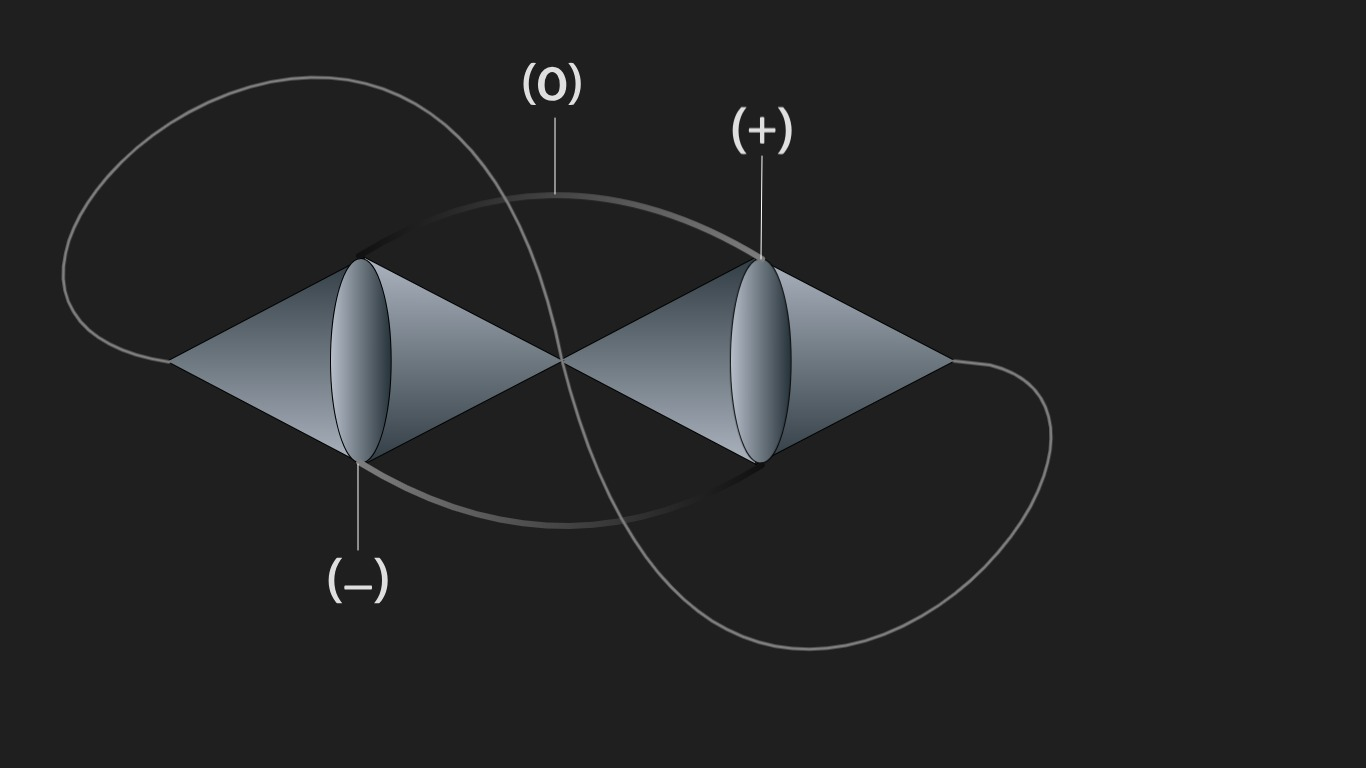
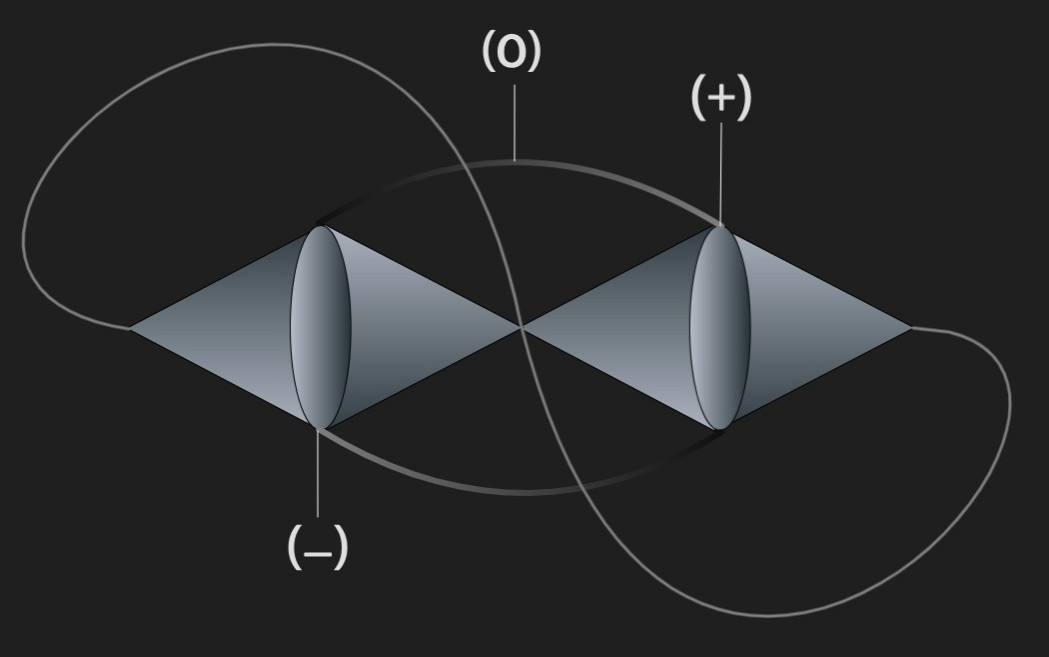
spacing

diff --git a/index.html b/index.html
@@ -36,11 +36,11 @@
       </header>
 
       <main role="main" class="inner cover">
-        <h1 class="cover-heading">Welcome to My Crazy.</h1>
+        <h1 class="cover-heading">Welcome to My Crazy.</h1><br><br>
+        <img src="SL0.jpeg" class="lead rounded mx-auto d-block" width="80%"><br>
         <p class="lead">This is a website for CS50W on edX!</p>
         <p class="lead">It presents a Grand Unified Theory of Everything in a way only comprehensible to me, which attempts to unify Theoretical Physics, Jungian Psychology, and Eastern Religions.</p>
         <p class="lead">I wish I had time to try to explain it better!</p>
-        <img src="SL0.jpeg" class="lead rounded mx-auto d-block" width="80%">
         <table class="lead table-responsive-md table-dark table-striped">
           <thead>
             <tr>
@@ -71,6 +71,7 @@
             </tr>
           </tbody>
         </table>
+        <br><br>
       </main>
 
       <footer class="mastfoot mt-auto">
